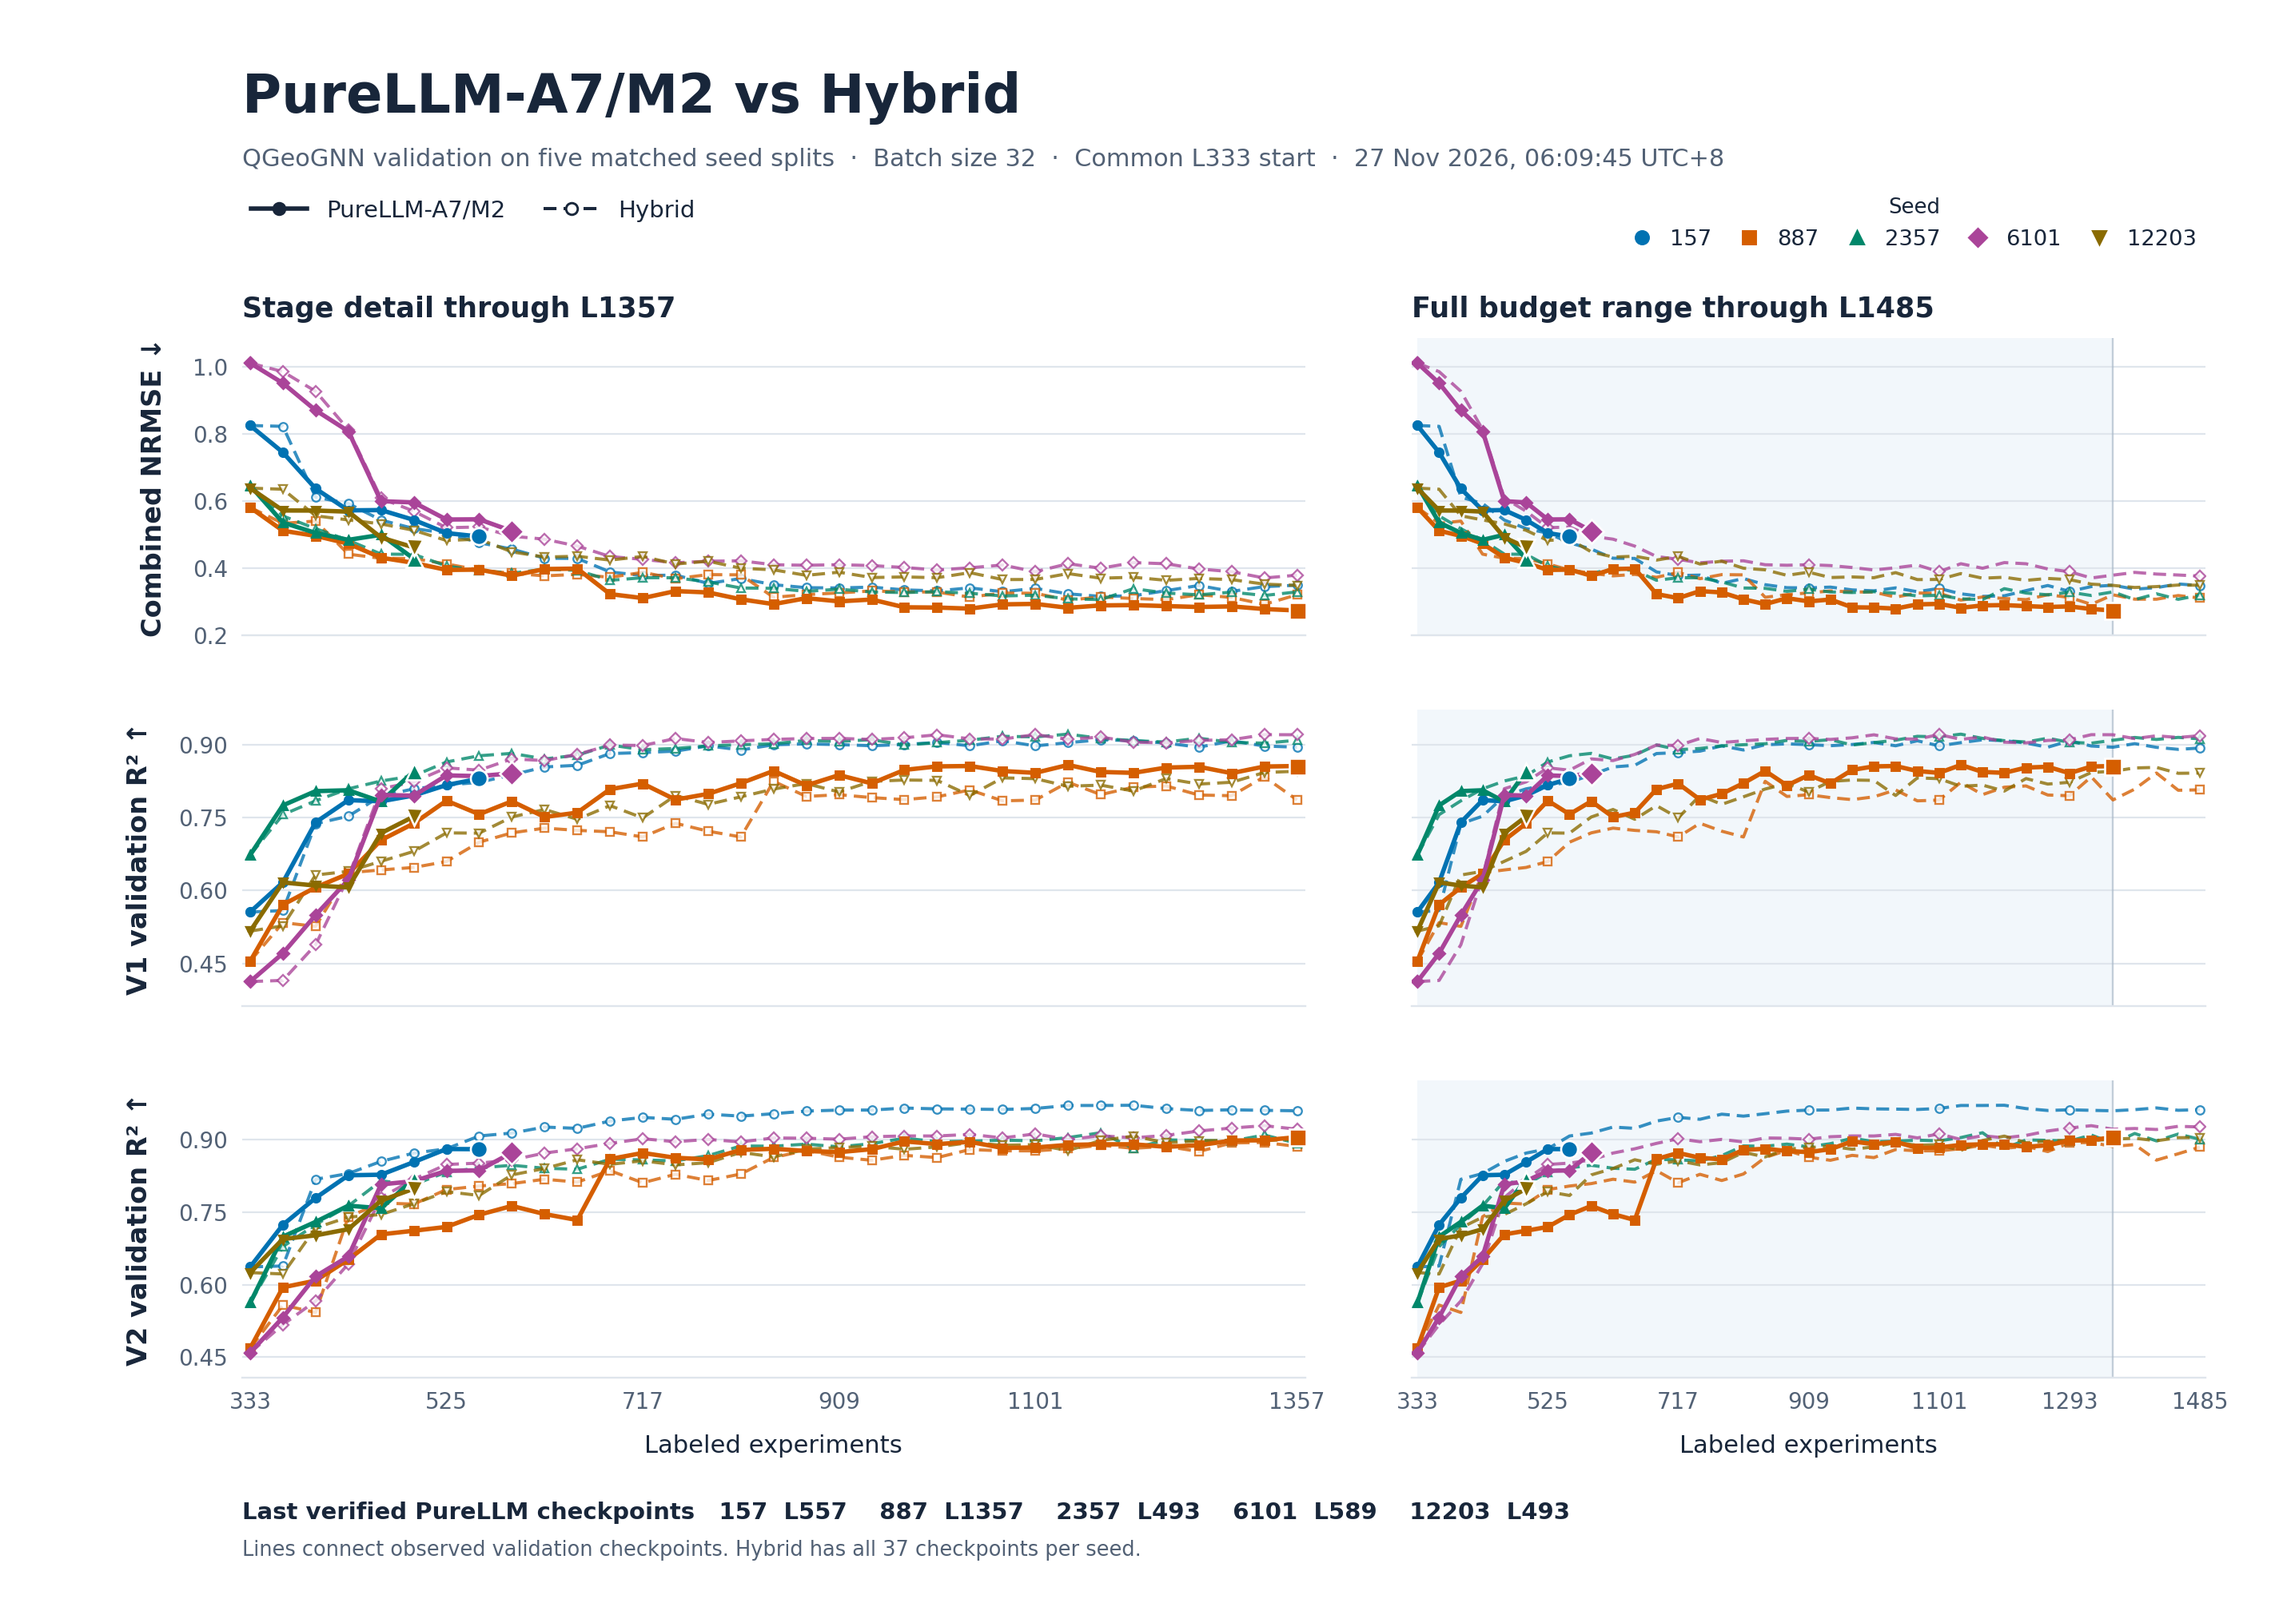
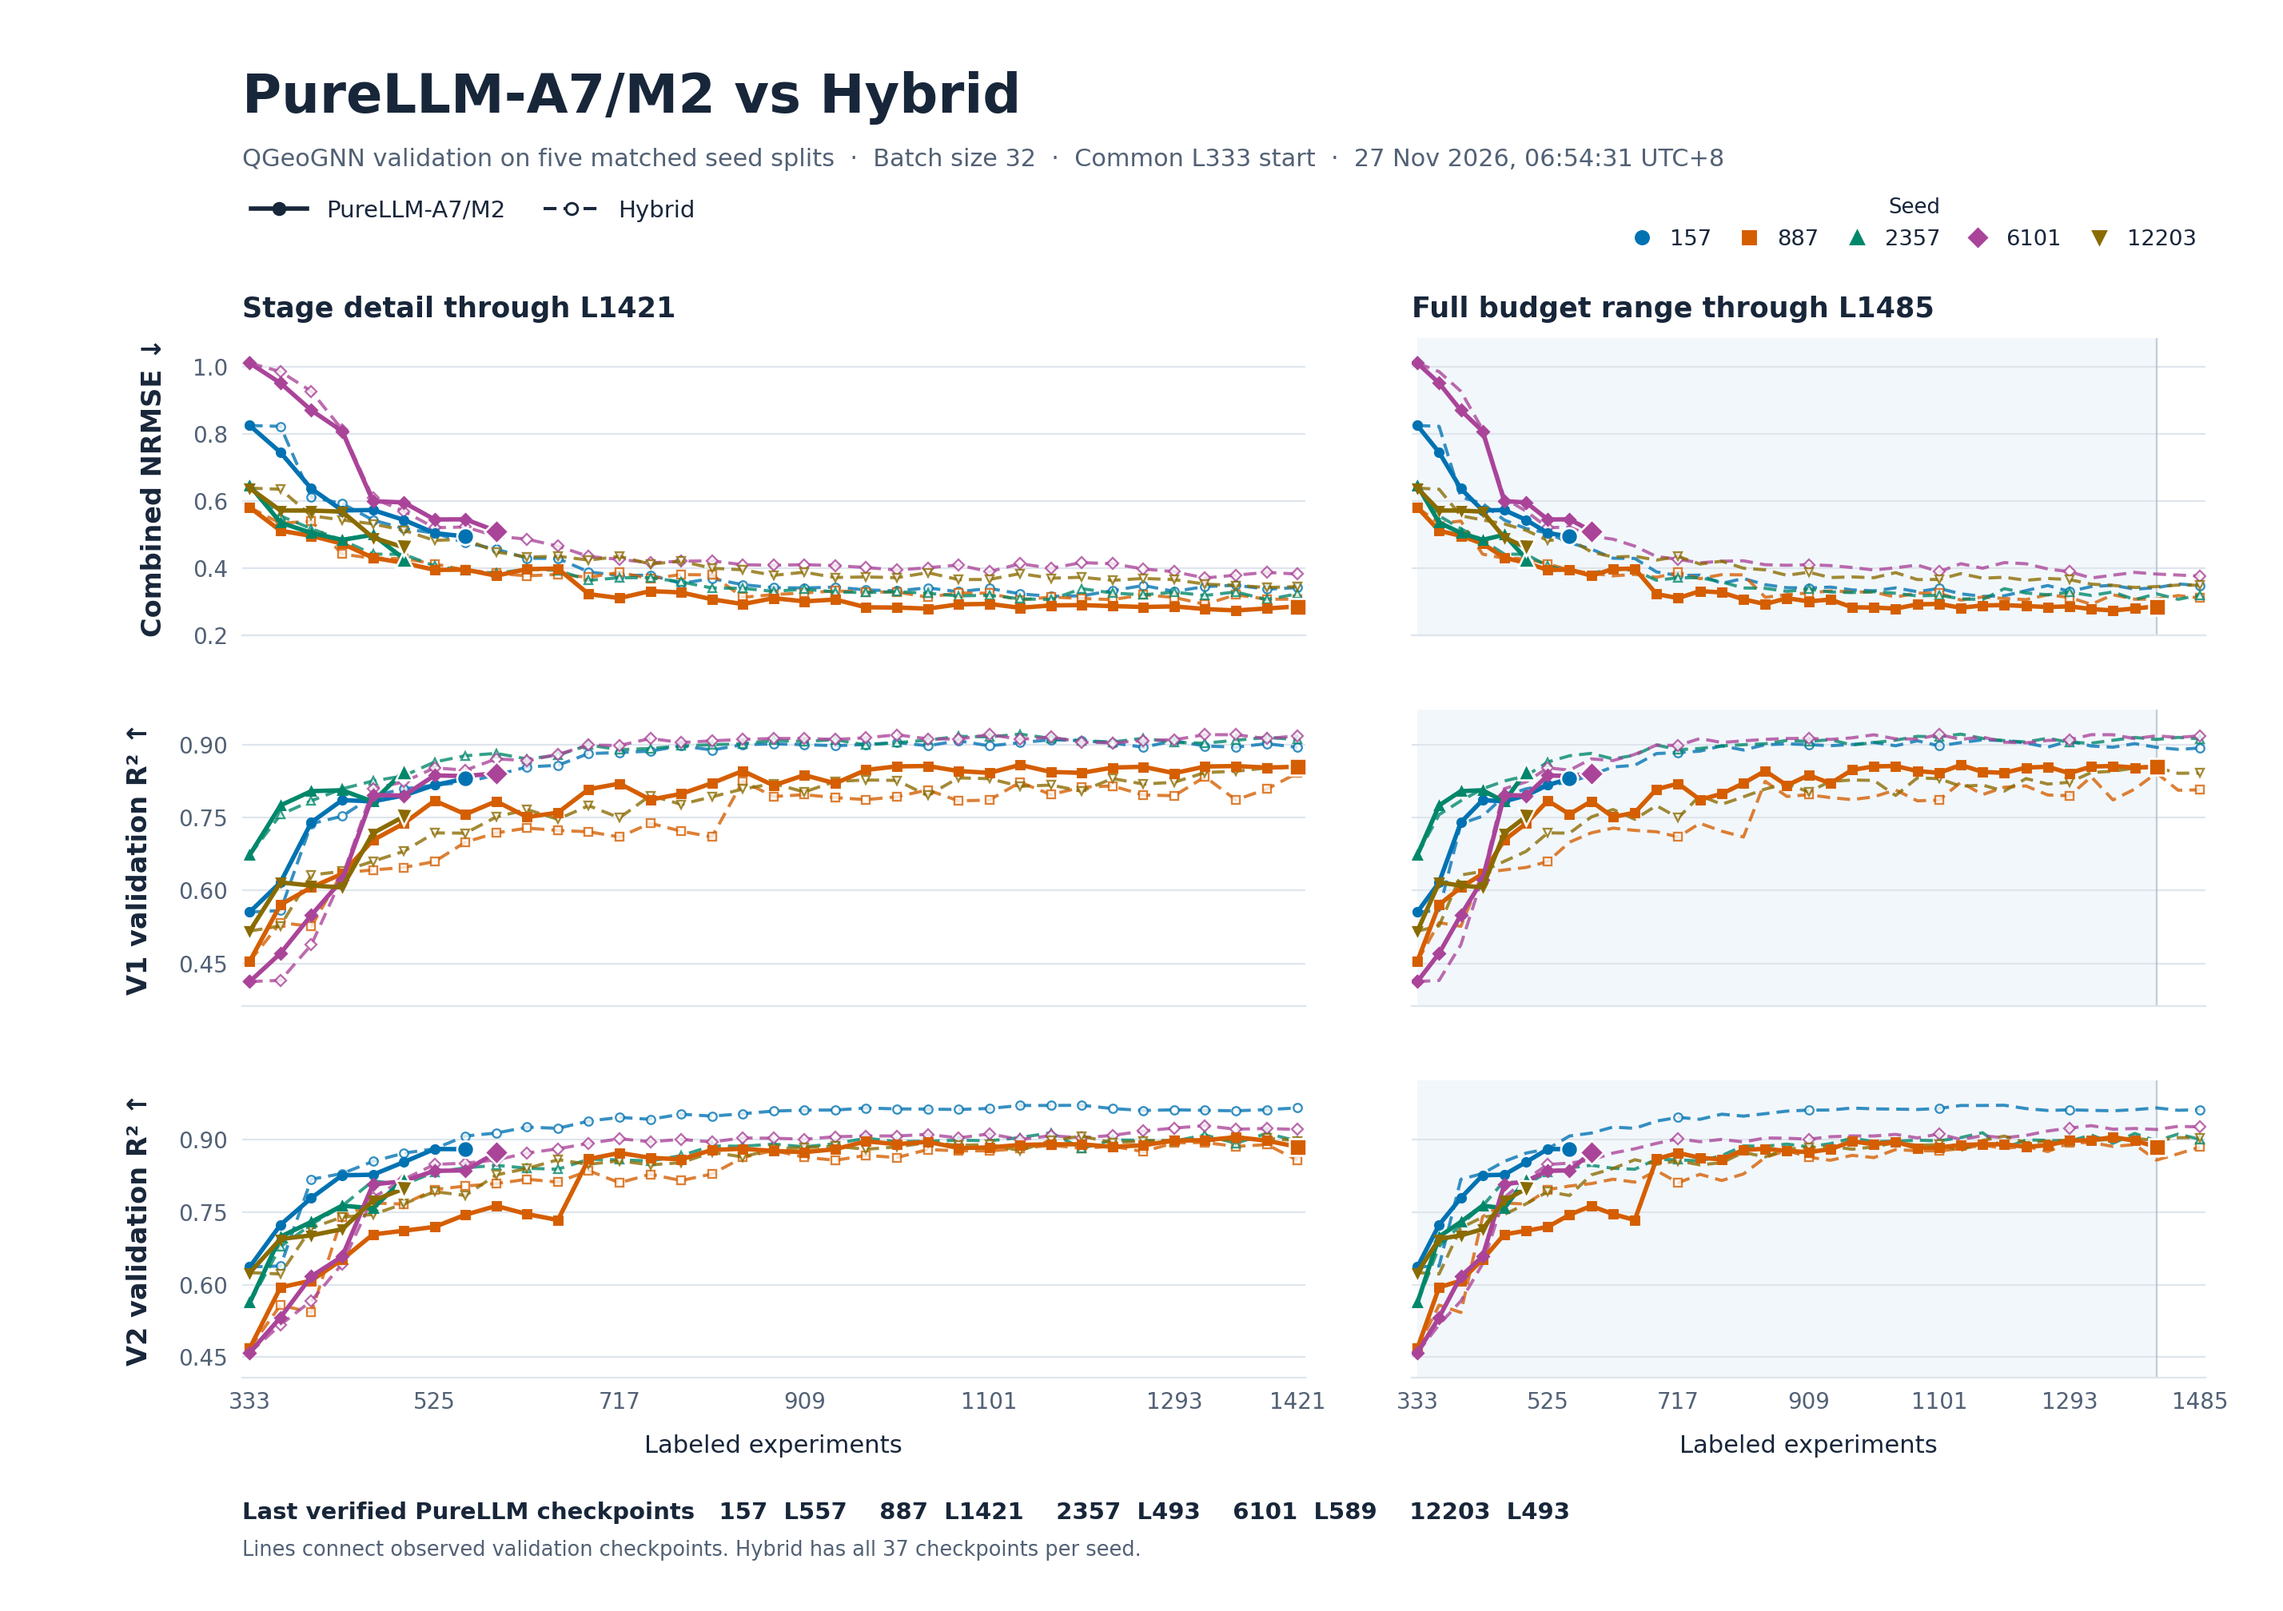
Refresh paired stage comparison through seed 887 L1421

diff --git a/reports/purellm_a7_stage_20261126/README.md b/reports/purellm_a7_stage_20261126/README.md
@@ -1,8 +1,8 @@
 # PureLLM-A7/M2 与 Hybrid 五 seed 阶段对比
 
-验证数据快照的核验时间为北京时间 2026 年 11 月 27 日 06:09:45。PureLLM 已完成 57 轮 CUDA 训练，记录了 1,824 条冻结选点及其理由。Hybrid 为正式 CUDA Uncertainty + Diversity Hybrid32，五条轨迹均已到 L1485。
+验证数据快照的核验时间为北京时间 2026 年 11 月 27 日 06:54:31。PureLLM 已完成 59 轮 CUDA 训练，记录了 1,888 条冻结选点及其理由。Hybrid 为正式 CUDA Uncertainty + Diversity Hybrid32，五条轨迹均已到 L1485。
 
-两种方法在每个 seed 上共用同一份 L333 CUDA checkpoint、验证划分和 QGeoGNN 训练协议，每轮新增 32 个实验。图中数值来自各预算选定 checkpoint 的验证记录。左侧放大截至 L1357 的阶段性曲线，右侧展示完整预算范围。实线止于各 seed 最后一次已完成的 PureLLM 训练。颜色和标记配对同一个 seed。 [L333 配对核验](paired_l333_anchor_receipts.json) · [Hybrid 正式归档](../eit_cuda_three_methods_20261124/README.md)
+两种方法在每个 seed 上共用同一份 L333 CUDA checkpoint、验证划分和 QGeoGNN 训练协议，每轮新增 32 个实验。图中数值来自各预算选定 checkpoint 的验证记录。左侧放大截至 L1421 的阶段性曲线，右侧展示完整预算范围。实线止于各 seed 最后一次已完成的 PureLLM 训练。颜色和标记配对同一个 seed。 [L333 配对核验](paired_l333_anchor_receipts.json) · [Hybrid 正式归档](../eit_cuda_three_methods_20261124/README.md)
 
 ![PureLLM 与 Hybrid 的五 seed 验证曲线](purellm_vs_hybrid_stage.png)
 
@@ -11,14 +11,14 @@
 | Seed | PureLLM 已完成轮次 | 最新预算 | PureLLM 验证 NRMSE | 同预算 Hybrid NRMSE | 差值 |
 |---:|---:|---:|---:|---:|---:|
 | 157 | 7 | L557 | 0.4944 | 0.4759 | +0.0185 |
-| 887 | 32 | L1357 | 0.2737 | 0.3204 | -0.0467 |
+| 887 | 34 | L1421 | 0.2858 | 0.3073 | -0.0215 |
 | 2357 | 5 | L493 | 0.4282 | 0.4412 | -0.0130 |
 | 6101 | 8 | L589 | 0.5108 | 0.4954 | +0.0154 |
 | 12203 | 5 | L493 | 0.4620 | 0.5130 | -0.0510 |
 
 差值为 PureLLM 减 Hybrid，NRMSE 越低越好。五个 seed 当前均覆盖到 L493，该预算处的平均验证 NRMSE 为 PureLLM **0.4893**、Hybrid **0.4942**。 在五条轨迹共有的 L333 至 L493 区间，按 B32 网格做梯形积分并除以 160 个标签的跨度，平均归一化 NRMSE AULC 为 PureLLM **0.5991**、Hybrid **0.6084**，5 个 seed 中有 4 个的 PureLLM AULC 更低。
 
-所有 57 轮各有 32 个不同候选。每轮覆盖 25 至 32 个分子，平均 31.04 个。取五条轨迹各自的前 5 轮，共 25 批，平均每轮覆盖 30.88 个分子。
+所有 59 轮各有 32 个不同候选。每轮覆盖 25 至 32 个分子，平均 31.07 个。取五条轨迹各自的前 5 轮，共 25 批，平均每轮覆盖 30.88 个分子。
 
 6101 到 L493 的这一轮来自已归档的完整模型回答。系统核验并移除重复引用别名，保留原有 32 个选点的顺序和理由，随后完成 CUDA 训练。这一步沿用归档回答的使用量记录，无新增 API 请求。
 
@@ -38,9 +38,11 @@
 
 887 的 R29 首答有一处对照分类错误，局部纠错只修改第 31 个选点 `C-0659` 的理由和引用关系，原有 32 个选点及顺序均保留。R30 和 R31 首答均通过正式 A7 校验。三轮均完成训练，L1357 的验证 NRMSE 为 **0.2737**。
 
+887 的 R32 最初提交触发服务商 response.failed，归档保留失败回执，计费状态仍待对账。后续完整原答有一处对照分类错误。一次付费局部纠错仅修正第 23 个选点 C-1591 的理由和对照关系，把与 O-1261 的比较标为 loading_solvent 单因素对照。原来的 32 个候选和顺序全部保留。逐轮记录分别保留两次完整响应的实际用量和先前失败回执。R32 完成 L1389，验证 NRMSE 为 **0.2797**。R33 首答通过 A7 校验并完成 L1421，验证 NRMSE 为 **0.2858**。
+
 ## 数据和选点
 
-- [PureLLM 验证指标](purellm_validation_curves.csv) 包含 5 个初始检查点和 57 个后续训练点。`round=0` 对应共享 L333，`acquisition_round=0` 对应首次选点和 L365 训练。 CSV 保留每个指标文件和 checkpoint 的摘要。 [PureLLM 逐文件清单](purellm_export_manifest.json)
+- [PureLLM 验证指标](purellm_validation_curves.csv) 包含 5 个初始检查点和 59 个后续训练点。`round=0` 对应共享 L333，`acquisition_round=0` 对应首次选点和 L365 训练。 CSV 保留每个指标文件和 checkpoint 的摘要。 [PureLLM 逐文件清单](purellm_export_manifest.json)
 - [Hybrid 验证指标](hybrid_validation_curves.csv) 共 185 个检查点。 [来源和校验记录](hybrid_validation_receipts.json)
 - 每个 seed 的 JSONL 每行对应一个已冻结并完成训练的轮次，保留模型给出的理由、引用和选点顺序。 [157](selections/seed_157_accepted_rounds.jsonl) · [887](selections/seed_887_accepted_rounds.jsonl) · [2357](selections/seed_2357_accepted_rounds.jsonl) · [6101](selections/seed_6101_accepted_rounds.jsonl) · [12203](selections/seed_12203_accepted_rounds.jsonl)
 
@@ -49,5 +51,5 @@
 使用 Python 和 Matplotlib 3.10.8，在本目录运行以下命令。
 
 ```bash
-python plot_stage.py --snapshot '27 Nov 2026, 06:09:45 UTC+8'
+python plot_stage.py --snapshot '27 Nov 2026, 06:54:31 UTC+8'
 ```
